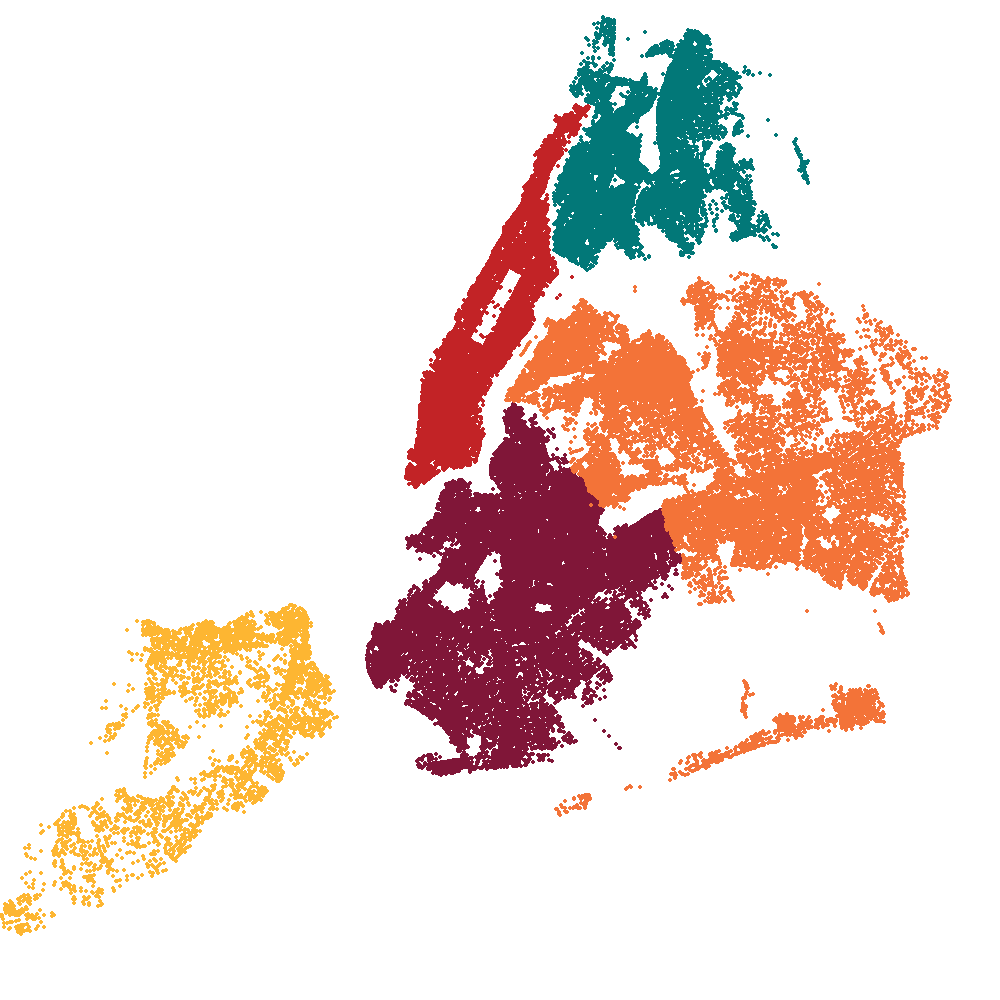
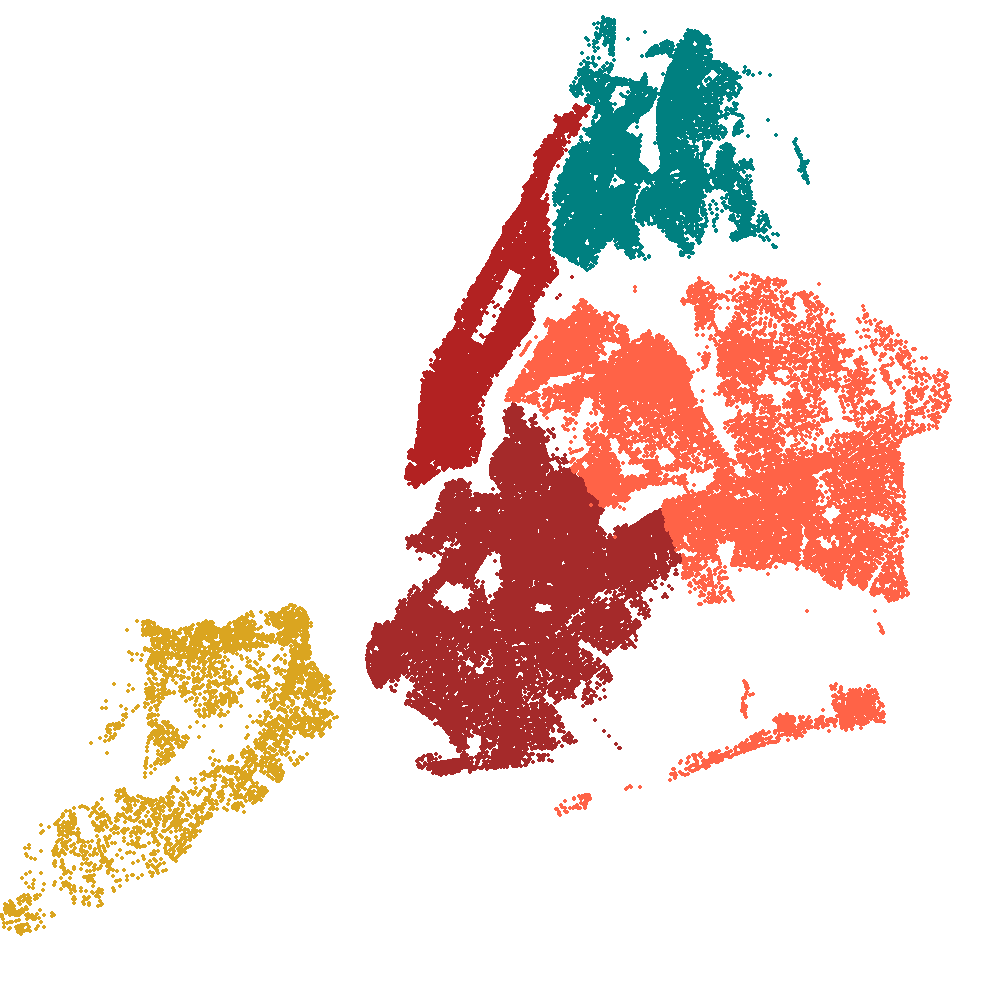
Assignment 2 Part 1. Done

Changed region(s): [[0.0, 0.403, 0.682, 0.93]]

diff --git a/Assignments/Program_2/main.py b/Assignments/Program_2/main.py
@@ -180,15 +180,15 @@ def read_crimes():
                     continue
     return crimes
 
-
+color=Colors()
 crimes = read_crimes()
 scaled(crimes, 950, 515)
 scaled(crimes_area, 950, 515)
-crimes_area['manhattan']['color'] = (194, 35, 38)
-crimes_area['queens']['color'] = (243, 115, 56)
-crimes_area['staten_island']['color'] = (253, 182, 50)
-crimes_area['brooklyn']['color'] = (128, 22, 56)
-crimes_area['bronx']['color'] = (2, 120, 120)
+crimes_area['manhattan']['color'] = color.get_rgb("firebrick")
+crimes_area['queens']['color'] = color.get_rgb("tomato")
+crimes_area['staten_island']['color'] = color.get_rgb("goldenrod")
+crimes_area['brooklyn']['color'] = color.get_rgb("brown")
+crimes_area['bronx']['color'] = color.get_rgb("teal")
 (width, height) = (1000, 1000)
 screen = pygame.display.set_mode((width, height))
 pygame.display.set_caption('New York Crimes')
